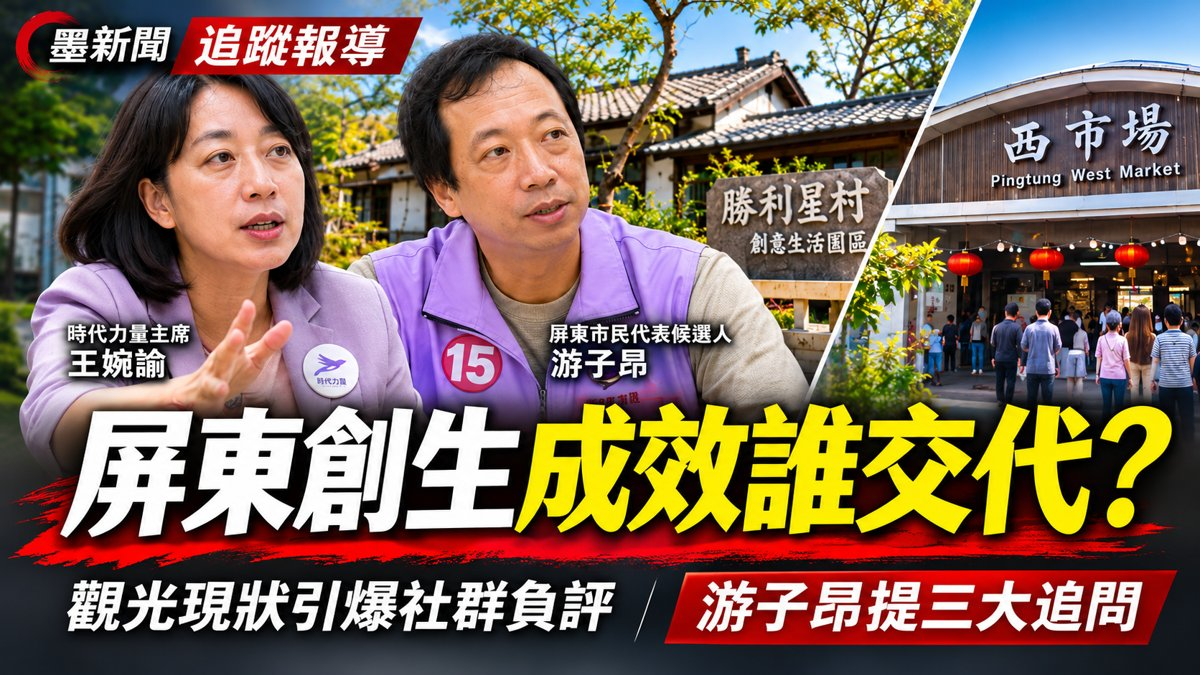
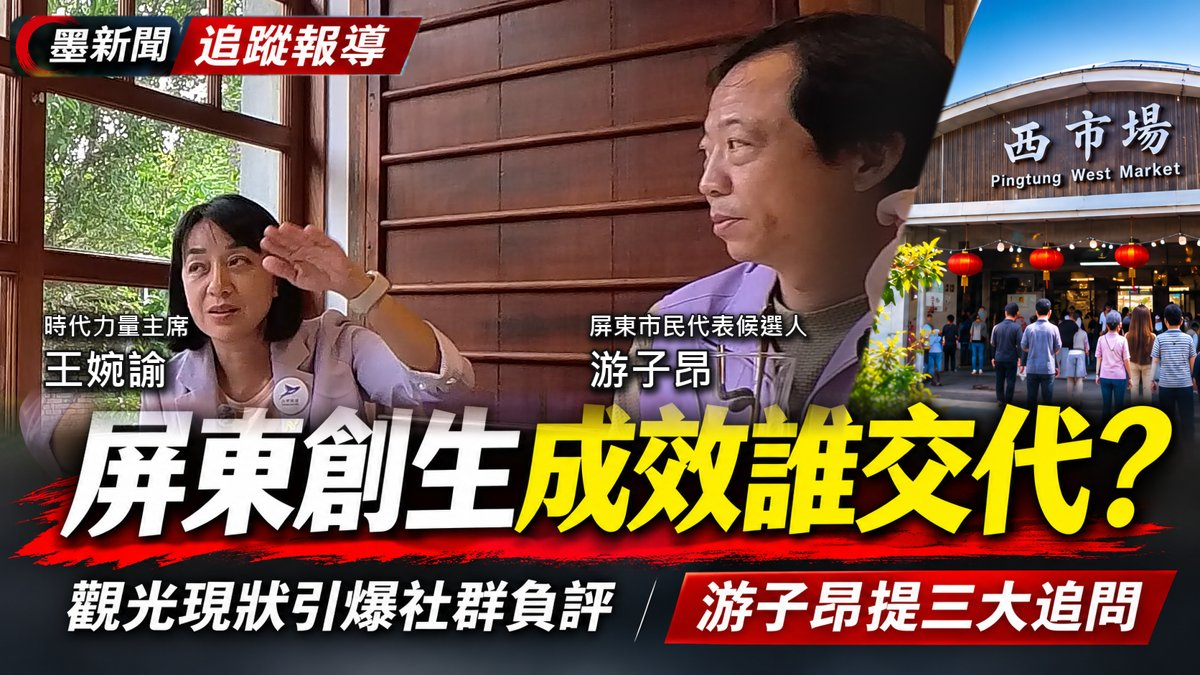
墨新聞 11/11 卡片：封面人像換成 11/6 勝利星村實拍照（原封面為 AI 生成臉，已告知記者）

diff --git a/index.html b/index.html
@@ -911,7 +911,7 @@ src="https://www.facebook.com/tr?id=1782786306235550&ev=PageView&noscript=1"
 
       <div class="media-card">
         <div class="media-thumb" style="padding:0;overflow:hidden;">
-          <img src="images/media-1111-morenews-followup.jpg" alt="墨新聞追蹤報導封面：王婉諭主席與游子昂，勝利星村與西市場，標題「屏東創生成效誰交代？」" style="width:100%;height:100%;object-fit:cover;">
+          <img src="images/media-1111-morenews-followup.jpg" alt="墨新聞追蹤報導封面，人像為 11 月 6 日王婉諭主席與游子昂在勝利星村聽業者反映的實拍照，右為西市場，標題「屏東創生成效誰交代？」" style="width:100%;height:100%;object-fit:cover;">
         </div>
         <div class="media-body">
           <div class="media-source">墨新聞・2026.11.11</div>
